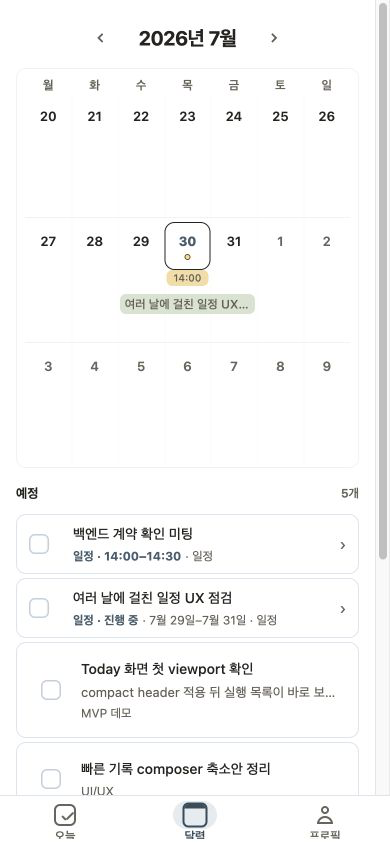
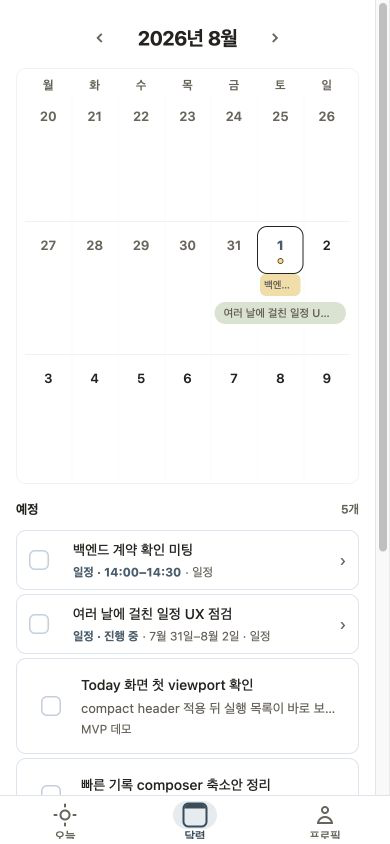
Refresh active tab screenshots

diff --git a/docs/product/ROADMAP.md b/docs/product/ROADMAP.md
@@ -298,7 +298,7 @@ ToDoLab 적용 방향:
 - [x] Product Design audit 기준 Calendar 일정 bar의 최소 크기, 텍스트 생략, column overflow, touch target을 다시 마감한다.
 - [x] Today section별 카드·border 무게를 낮추고 일정/오늘 할 일/정리할 항목/완료의 역할 차이를 더 명확히 만든다.
 - [x] Quick Capture 열린 상태의 기본 파란 focus border를 앱 primary soft border와 bottom sheet형 composer visual로 교체한다.
-- [ ] 하단 tab active icon·label의 선택 상태와 실제 스크린샷을 갱신해 Today/Calendar/Profile의 현재 위치가 분명히 보이는지 확인한다.
+- [x] 하단 tab active icon·label의 선택 상태와 실제 스크린샷을 갱신해 Today/Calendar/Profile의 현재 위치가 분명히 보이는지 확인한다.
 - [ ] Profile 상단 로그인 card와 shortcut row를 “나의 플래너 공간”처럼 보이도록 여백, 동기화 상태 copy, icon 리듬을 다듬는다.
 - [ ] iOS/Android font scale 1.5, safe area, light/dark에서 Today와 Calendar가 깨지지 않는지 실제 기기 또는 simulator로 확인한다.
 
